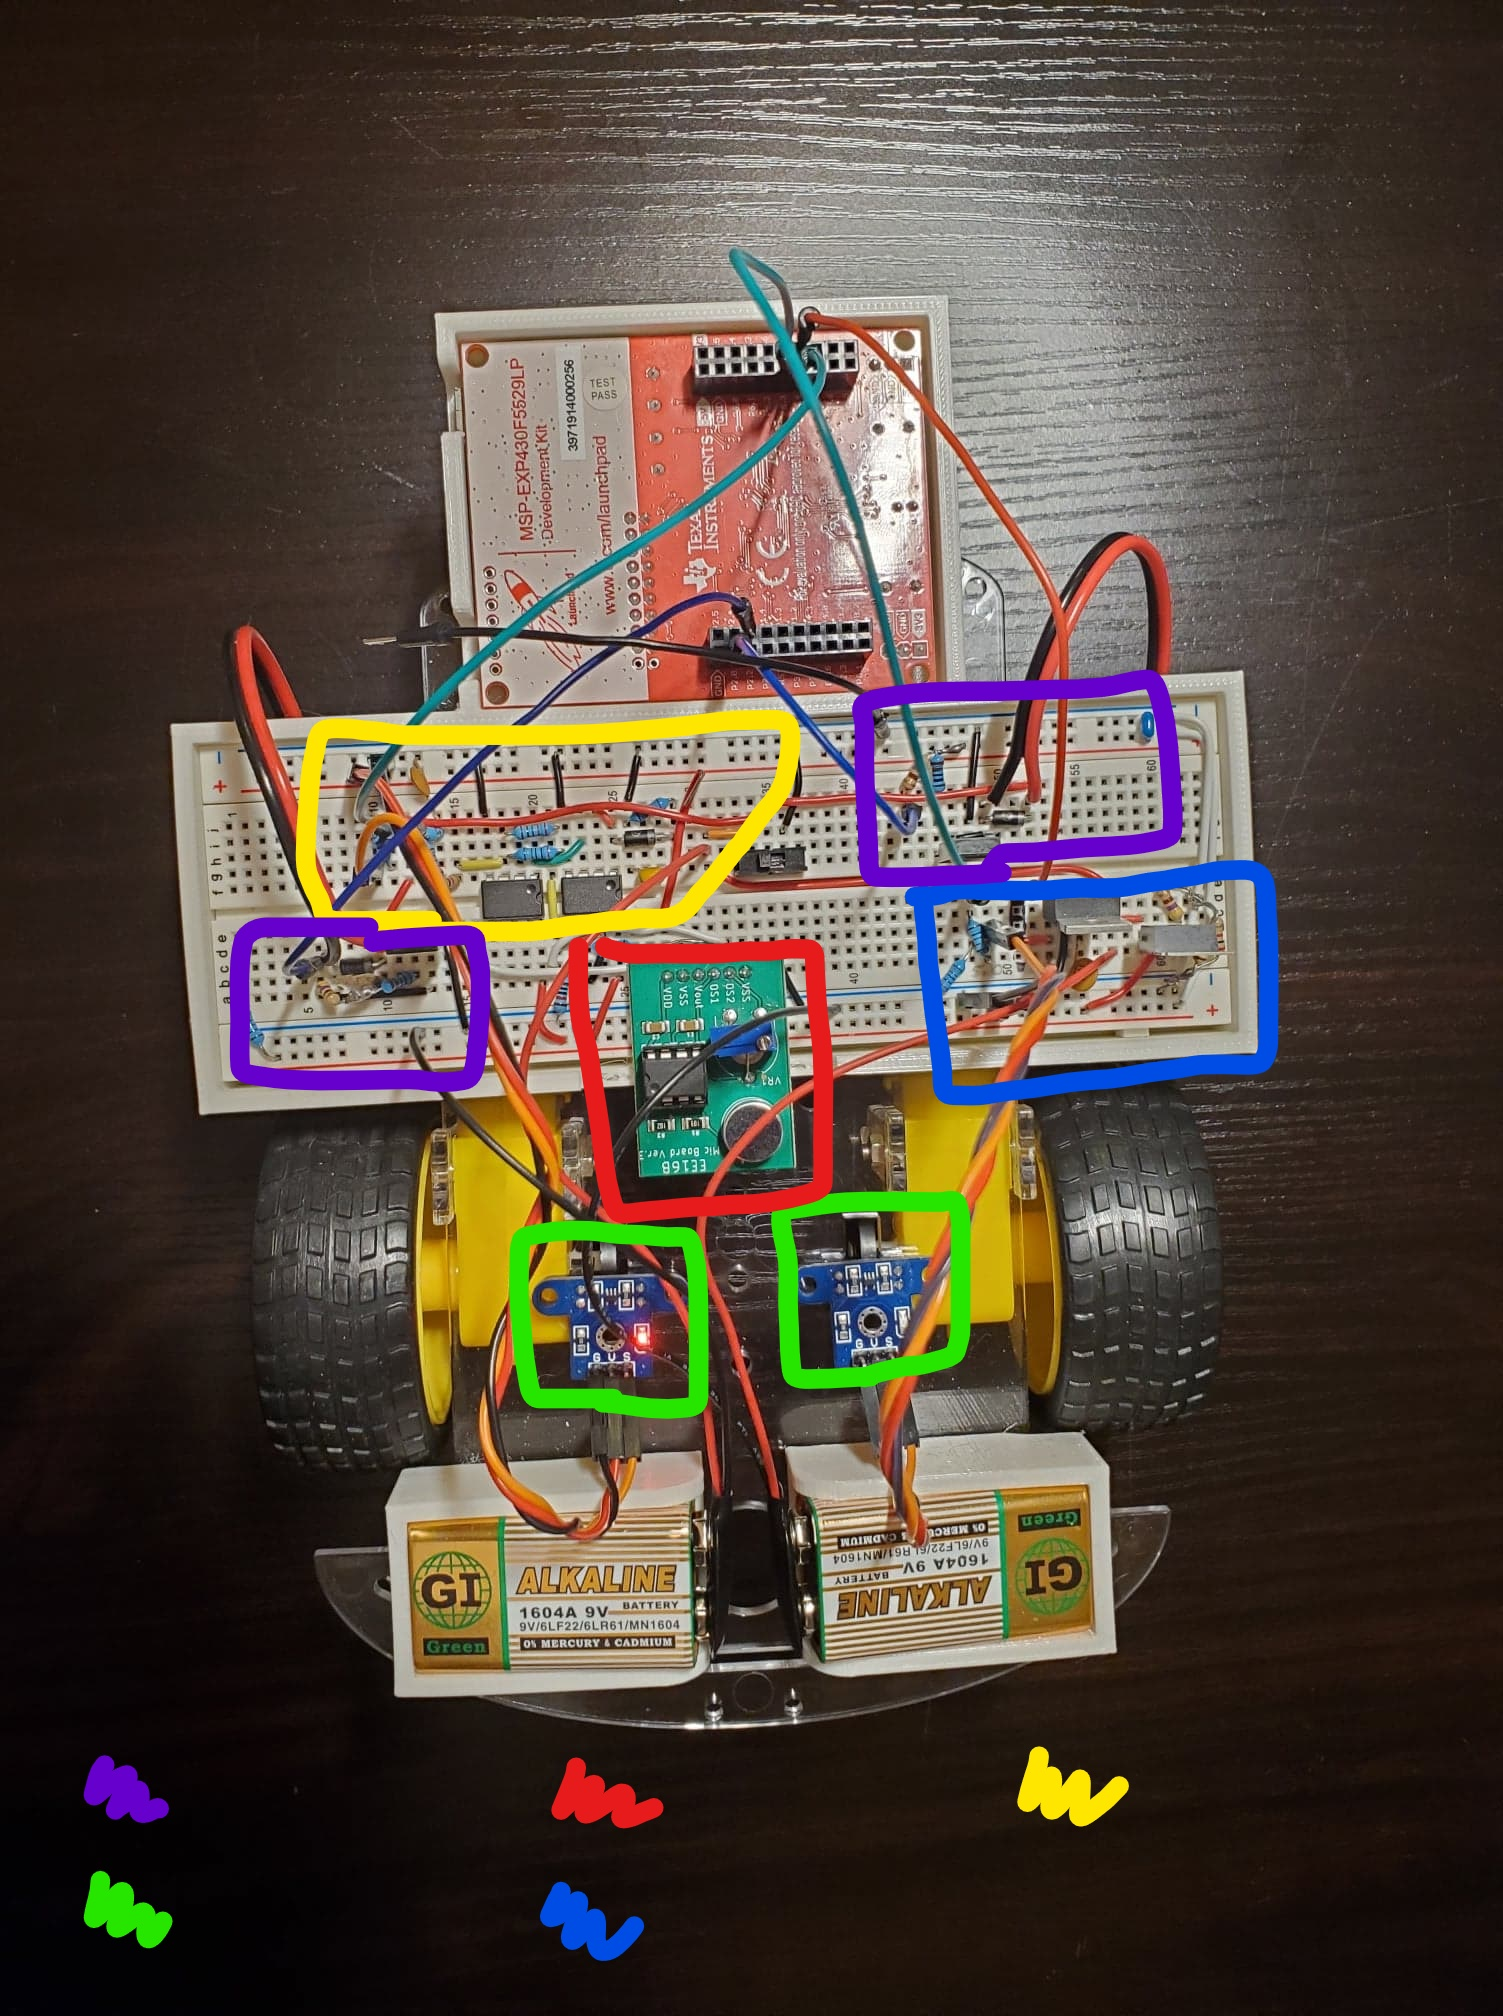
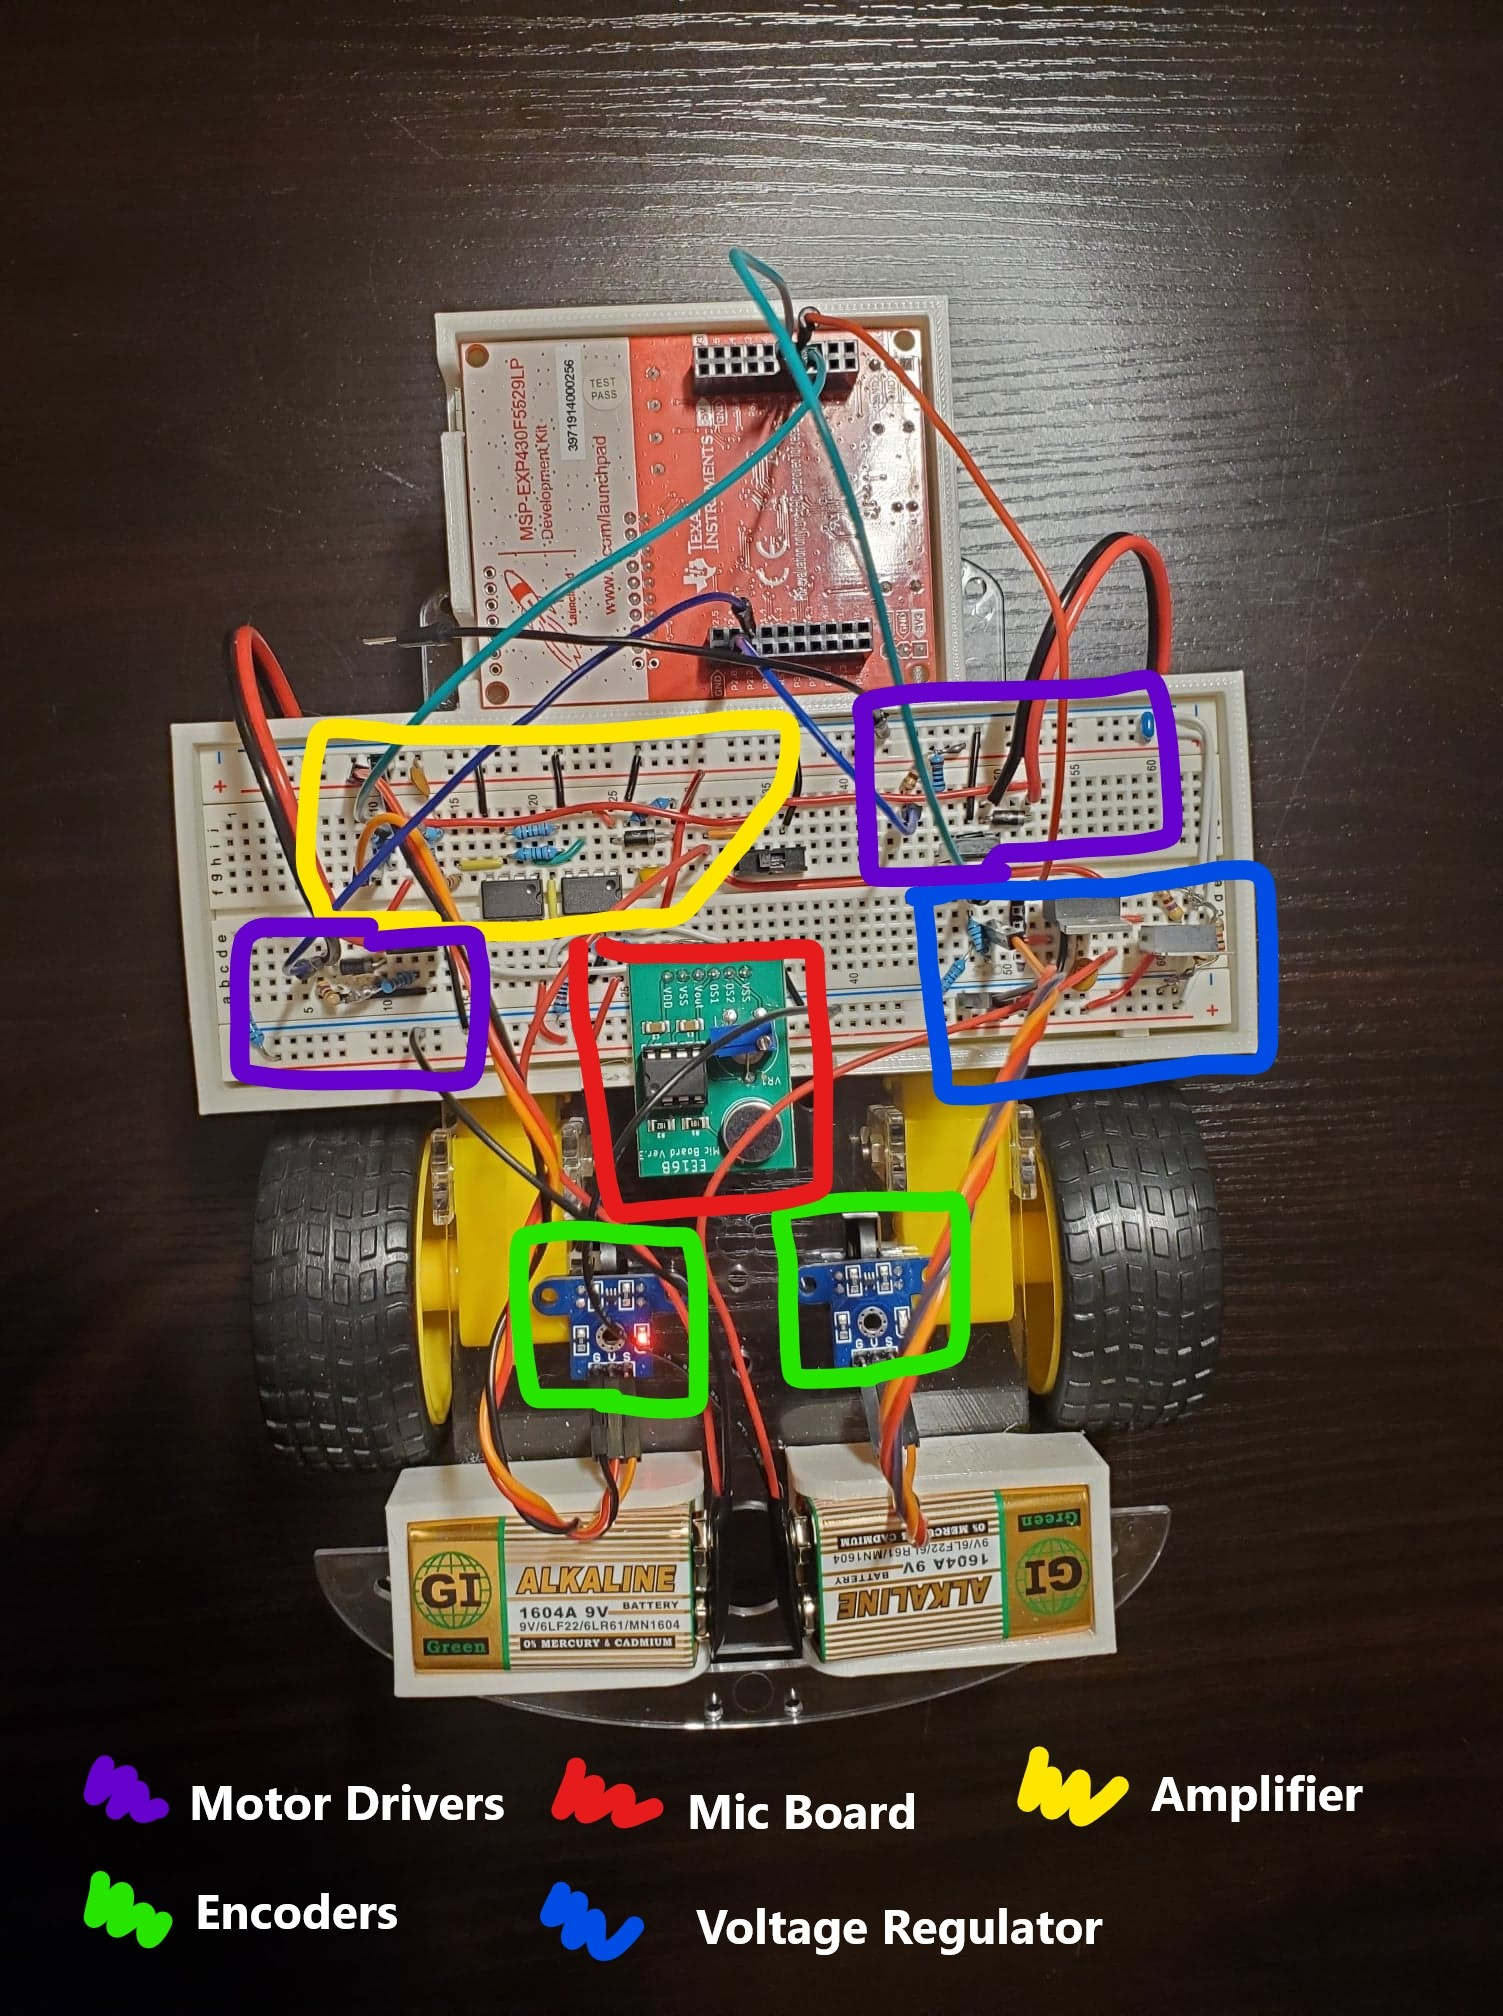
minor bug fixes

diff --git a/projects/sixt33n.md b/projects/sixt33n.md
@@ -35,6 +35,6 @@ Lastly, yet most importantly, the car needs to understand my commands. The car i
 Sixt33n is alive!  A simple car that can hear -> think -> drive. 
 
 <figure align="center">
-  <iframe width="560" height="315" src="https://www.youtube.com/embed/v=O_f_HiLnOQg" title="Sixt33n's test drive" allowfullscreen></iframe>
+  <iframe width="560" height="315" src="https://www.youtube.com/embed/O_f_HiLnOQg" title="Sixt33n's test drive" allowfullscreen></iframe>
 </figure>
 
